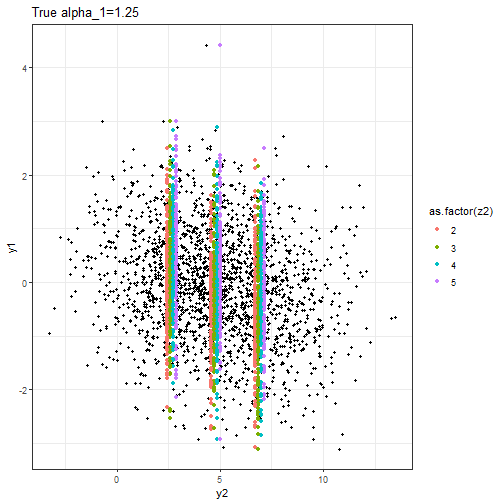
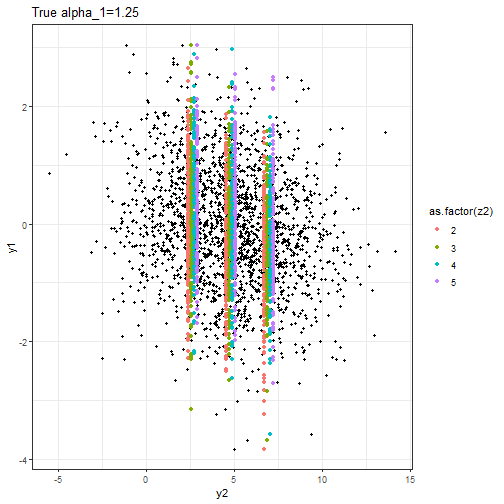
13 html

diff --git a/13-Simultaneous-equations/13-Simultaneous-equations.html b/13-Simultaneous-equations/13-Simultaneous-equations.html
@@ -28,7 +28,7 @@ layout: true
 
 
 ---
-class: MSUMSU
+class: MSU
 name: Overview
 
 # Last time
@@ -378,19 +378,19 @@ class: MSU
 ## 
 ## Residuals:
 ##     Min      1Q  Median      3Q     Max 
-## -7.5952 -1.4754  0.0175  1.5563  7.2024 
+## -7.8869 -1.5820  0.0235  1.5845  8.5452 
 ## 
 ## Coefficients:
 ##             Estimate Std. Error t value Pr(&gt;|t|)    
-## (Intercept) -0.02559    0.20373  -0.126 0.900037    
-## z1           2.13774    0.06176  34.616  &lt; 2e-16 ***
-## z2           0.14994    0.04434   3.382 0.000734 ***
+## (Intercept) -0.08727    0.20801  -0.420 0.674859    
+## z1           2.15715    0.06360  33.916  &lt; 2e-16 ***
+## z2           0.16437    0.04625   3.554 0.000389 ***
 ## ---
 ## Signif. codes:  0 '***' 0.001 '**' 0.01 '*' 0.05 '.' 0.1 ' ' 1
 ## 
-## Residual standard error: 2.224 on 1997 degrees of freedom
-## Multiple R-squared:  0.3777,	Adjusted R-squared:  0.3771 
-## F-statistic:   606 on 2 and 1997 DF,  p-value: &lt; 2.2e-16
+## Residual standard error: 2.319 on 1997 degrees of freedom
+## Multiple R-squared:  0.3693,	Adjusted R-squared:  0.3687 
+## F-statistic: 584.6 on 2 and 1997 DF,  p-value: &lt; 2.2e-16
 ```
 ---
 class: MSU 
@@ -406,19 +406,19 @@ class: MSU
 ## 
 ## Residuals:
 ##     Min      1Q  Median      3Q     Max 
-## -3.1401 -0.6468 -0.0100  0.6112  4.2041 
+## -3.3280 -0.6055 -0.0091  0.6308  2.9532 
 ## 
 ## Coefficients:
 ##             Estimate Std. Error t value Pr(&gt;|t|)    
-## (Intercept) -0.02378    0.08582  -0.277    0.782    
-## y2hat        1.26227    0.12812   9.852   &lt;2e-16 ***
-## z1          -3.03395    0.27544 -11.015   &lt;2e-16 ***
+## (Intercept)  0.11536    0.07768   1.485    0.138    
+## y2hat        0.93625    0.11498   8.143 6.71e-16 ***
+## z1          -2.34004    0.24998  -9.361  &lt; 2e-16 ***
 ## ---
 ## Signif. codes:  0 '***' 0.001 '**' 0.01 '*' 0.05 '.' 0.1 ' ' 1
 ## 
-## Residual standard error: 0.9636 on 1997 degrees of freedom
-## Multiple R-squared:  0.1121,	Adjusted R-squared:  0.1112 
-## F-statistic:   126 on 2 and 1997 DF,  p-value: &lt; 2.2e-16
+## Residual standard error: 0.9475 on 1997 degrees of freedom
+## Multiple R-squared:  0.09668,	Adjusted R-squared:  0.09577 
+## F-statistic: 106.9 on 2 and 1997 DF,  p-value: &lt; 2.2e-16
 ```
 
 
@@ -427,7 +427,7 @@ class: MSU
 # Simultaneity
 
 ### The second-stage coefficient
-We get a pretty accurate estimate for `\(\alpha_1=1.26\)` from the second-stage having used `\(z_2\)` to instrument for `\(y_2\)`.
+We get a pretty accurate estimate for `\(\alpha_1=0.94\)` from the second-stage having used `\(z_2\)` to instrument for `\(y_2\)`.
 
 ---
 class: MSU
